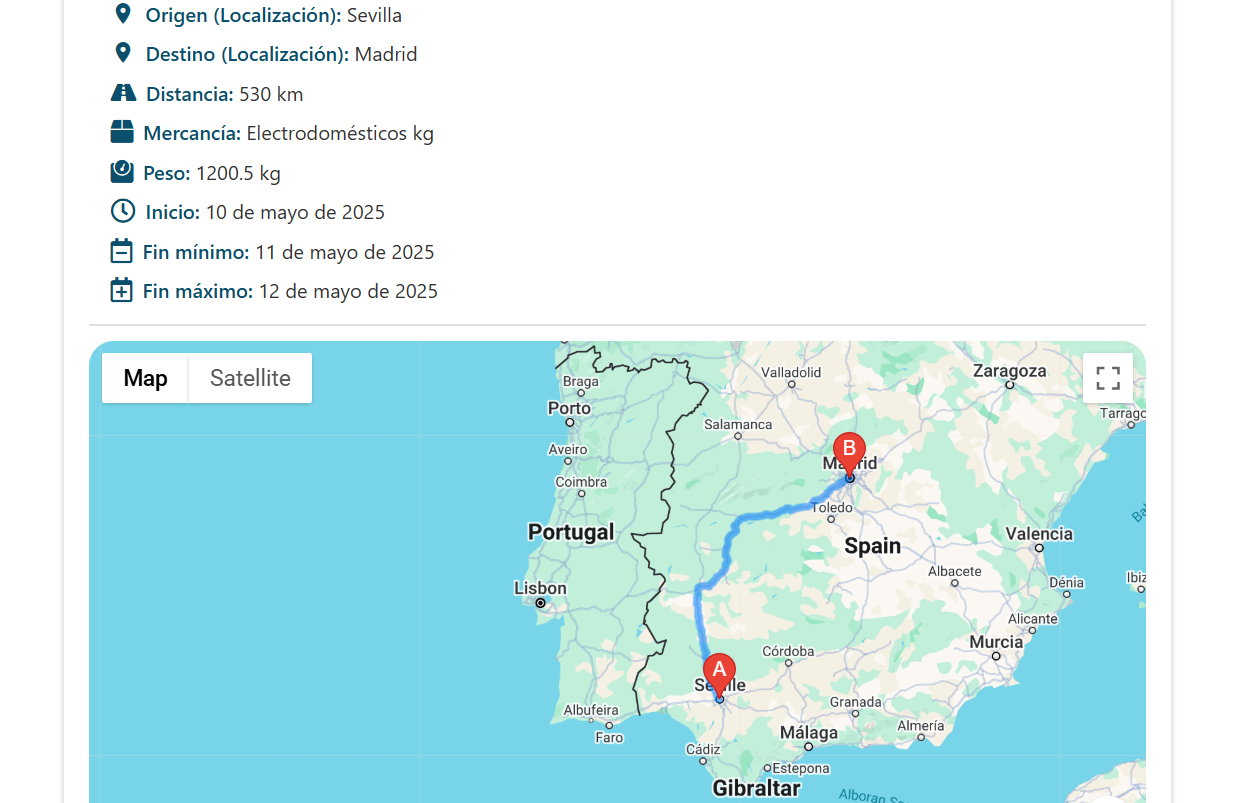
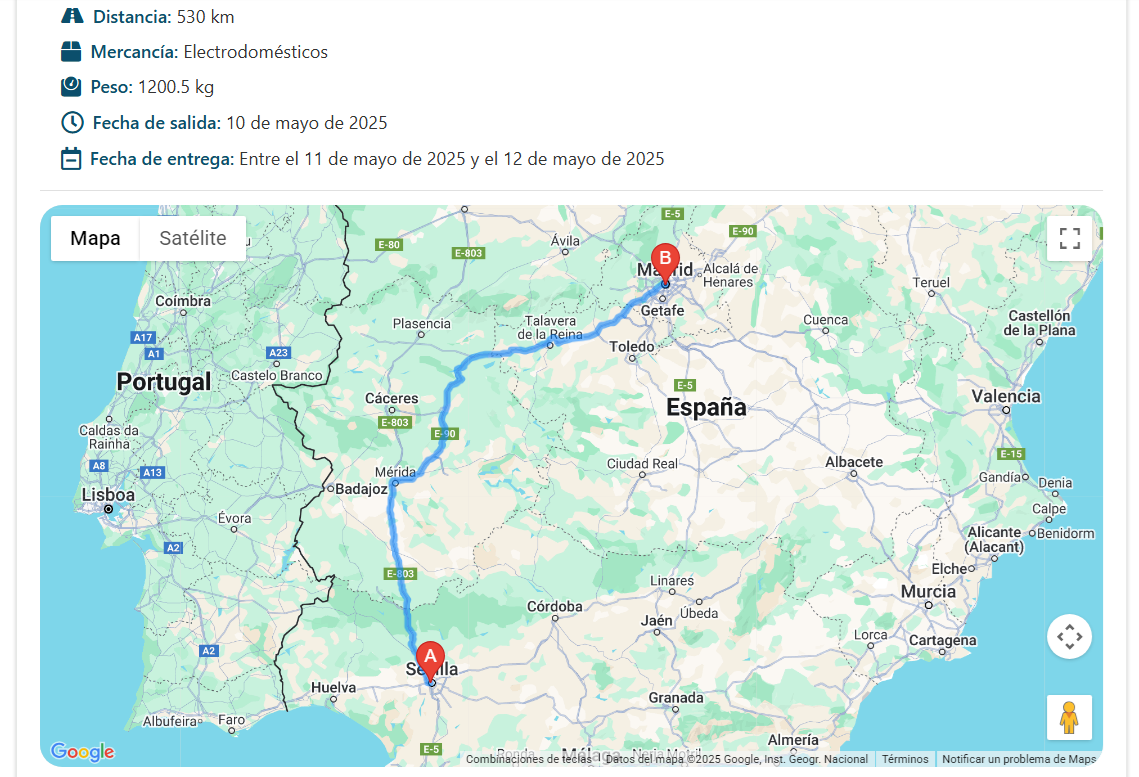
docs: update images from revision.md

diff --git a/docs/5. Preparing Project Launch (PPL)/revision.md b/docs/5. Preparing Project Launch (PPL)/revision.md
@@ -26,13 +26,12 @@
 
 # Contribuciones del Equipo
 
-| Nombre(s) y Apellido(s) | Tipo de Contribución |
-| --- | --- |
-| Adriana Vento Conesa | Datos para la revisión y actualización de algunas imágenes. |
-| José Ramón Baños Botón | Actualización de algunas imágenes. |
-| Raúl Heras Pérez | Añadir apartado de anuncios |
-
-
+| Nombre(s) y Apellido(s)    | Tipo de Contribución                                          |
+| -------------------------- | -------------------------------------------------------------- |
+| Adriana Vento Conesa       | Datos para la revisión y actualización de algunas imágenes. |
+| José Ramón Baños Botón | Actualización de algunas imágenes.                           |
+| Raúl Heras Pérez         | Añadir apartado de anuncios                                   |
+| Carlos García Ortiz       | Actualizar imágenes                                           |
 
 # Tabla de Contenidos
 
@@ -69,8 +68,6 @@
 9. [Pagos](#9-pagos)  
    9.1 [Finalizar compra](#91-finalizar-compra)  
 
-
-
 ## 1. Resumen Ejecutivo
 
 Este documento proporciona una guía detallada para revisar la aplicación web de *matchmaking* de camioneros. Incluye un mapeo explícito de los casos de uso (UC) a las interacciones en el software, datos necesarios para la revisión, requisitos del sistema y un enlace a la demostración.
@@ -101,33 +98,30 @@ En esta tabla aparece toda la información necesaria para la revisión de Camyo.
 ## 3. Autenticación
 
 ### 3.1 Registro
-Pantalla inicial del registro donde el usuario debe elegir si se registrará como Camionero o Empresa.
 
+Pantalla inicial del registro donde el usuario debe elegir si se registrará como Camionero o Empresa.
 
 ![image](./images/registro_opciones.png)
 
 #### 3.1.1 Registro como camionero
+
 Formulario detallado para el registro de camioneros, donde se solicitan datos personales, licencias, experiencia, CAP, y condición de autónomo. Cabe destacar la obligación de aceptar términos y condiciones.
 
 ![image](images/registro_camionero.png)
 ![image](images/registro_camionero2.png)
 
 #### 3.1.2 Registro como empresa
+
 Formulario de registro para empresas, incluyendo información básica, datos de contacto, sitio web y número de identificación fiscal. Cabe destacar la obligación de aceptar términos y condiciones.
 
 ![image](images/registro_empresa.png)
 ![image](images/registro_empresa2.png)
 
-
 ### 3.2 Inicio de sesión
+
 Formulario para que usuarios registrados ingresen con su nombre de usuario y contraseña. Incluye opción para redirigirse al registro si aún no tienen cuenta.
 
 ![image](images/inicio_sesion.png)
-
-
-
-
-
 
 ## 4. General
 
@@ -157,11 +151,11 @@ La pantalla tiene una seccion de búsqueda que permite filtrar ofertas según lo
 
 ![image](images/buscarofertas2.png)
 
-
 ### 4.3 Detalle de oferta
+
 Vista del detalle de una oferta visible para visitantes, que muestra los datos pero requiere iniciar sesión para poder solicitarla.
 
-![image](https://github.com/user-attachments/assets/e2797c89-e28d-4faa-8a91-5a8ba054da2b)
+![image](images/detalles oferta.png)
 
 Pantalla de detalle de una oferta para usuarios autenticados, con botón activo para solicitarla y toda la información relevante del transporte: presupuesto, licencias, origen/destino, fechas y carga. Para las ofertas de carga se incluye un mapa con la ruta entre origen y destino.
 
@@ -169,38 +163,32 @@ Pantalla de detalle de una oferta para usuarios autenticados, con botón activo 
 
 Si solicitamos la oferta nos saldrá un mensaje si la solicitud se ha completado.
 
-![image](https://github.com/user-attachments/assets/a5e70e85-f033-4b50-a4fa-80aecd7cb693)
-
+![image](images/solicitar.png)
 
 En el caso de estar iniciado sesión como empresa, y entramos en detalle de oferta en una oferta propia. Veríamos las camioneros que han solicitado la oferta:
 
-![image](images/camionerosSolicitantes.png)
-
-En el caso de haber asignado a un camionero, podremos contactar con él:
-
-![image](images/camioneroAsignado.png)
+![image](https://github.com/user-attachments/assets/be61c861-5a6e-4e8a-b41b-7600c6f25798)
 
 Los camioneros que han aplicado a la oferta y la empresa que ha hecho la oferta ha rechazado:
 
-![image](images/camionerosRechazados.png)
+![image](https://github.com/user-attachments/assets/d9d500cc-4dac-4926-bfd3-ed2ebcb470a9)
 
 Y la opción de eliminar la oferta:
 
-![image](images/botonEliminar.png)
-
+![image](https://github.com/user-attachments/assets/c0850258-e05e-49ce-8438-f22a1b2456eb)
 
 ### 4.4 Listado de empresas
+
 Pantalla que muestra un listado de empresas registradas en la plataforma con información básica como nombre, web, identificación, ubicación y teléfono, además de acceso a sus perfiles detallados. Se accede mediante el botón de menú sobre empresa.
 
 ![image](https://github.com/user-attachments/assets/dc310496-9942-4df9-ba42-b47a2b8f8ade)
 
-
 ### 4.5 Detalle de empresa
+
 Vista del perfil de una empresa con su información de contacto, descripción, sitio web, ofertas activas y opción para contactar o dejar una reseña. Se ve las ofertas patrocinadas de la empresa en las ofertas activas. También se muestra una sección para valoraciones de otros usuarios.
 
-![image](https://github.com/user-attachments/assets/76b45642-924d-4f57-a49d-cc7f5a74e7d1)
-![image](https://github.com/user-attachments/assets/a11b1288-a9a7-402d-af08-ea9252bea6a9)
-
+![image](images/perfilempresa.png)
+![image](images/perfilempresa2.png)
 
 ## 5. Camionero
 
@@ -209,7 +197,9 @@ Vista del perfil de una empresa con su información de contacto, descripción, s
 Vista privada del perfil del camionero, donde puede ver su información profesional y reseñas recibidas. Además puede editar los datos de su perfil haciendo click sobre la imagen de perfil en la parte superior derecha de la pantalla, y después en ver perfil. Dentro de tu perfil podrás editar el perfil haciendo click sobre el lapiz al lado de la foto de perfil y si quisiera eliminar su cuenta se hace abajo en eliminar cuenta
 ![image](https://github.com/user-attachments/assets/fc43da7f-31e1-434d-8b50-5a74741dbcaf)
 
-![image](https://github.com/user-attachments/assets/5d392ae6-7f58-492a-99c6-3d9ef42345cd)
+![image](images/miperfilcamionero.png)
+
+![image](images/miperfilcamionero2.png)
 
 En la edición de perfil el usuario podrá editar:
 ![image](https://github.com/user-attachments/assets/896b41fa-3256-4014-a6f8-a641d5c306ba)
@@ -220,21 +210,22 @@ En la edición de perfil el usuario podrá editar:
 
 Perfil público visible para las empresas, donde se muestra información laboral, contacto y reseñas recibidas.
 
-![image](https://github.com/user-attachments/assets/4be39ed4-dd9a-4004-8e57-66e8b0f7015e)
+![image](images/perfilcamionero.png)
 
+![image](images/perfilcamionero2.png)
 
 ### 5.2 Mis Ofertas
 
 Una vez iniciada la sesión como camionero, aparece en la barra de navegación la sección "Mis Ofertas" que muestra las solicitudes que ha realizado el camionero y se pueden filtrar por ofertas pendientes (en espera de respuesta por parte de la empresa), asignadas (ofertas aceptadas por la empresa) o descartadas (ofertas en las que el camionero no fue seleccionado para el trabajo o carga).
 
-![image](https://github.com/user-attachments/assets/58a0555d-3912-4dc7-93d3-8f9c75e38aff)
+![image](images/misofertaspendientes.png)
 
 ![image](https://github.com/user-attachments/assets/3d0413f7-da11-4017-aca2-5b7c410aa7a2)
 
 ![image](https://github.com/user-attachments/assets/06c63099-cb29-4ebb-b9e1-92e6aa617da8)
 
-
 ### 5.3 Chat
+
 Una vez iniciado sesión como transportista se podrá acceder a la pantalla de mensajería mediante la barra de navegación, en el apartado de "Mis Mensajes".
 
 <p align="center">
@@ -257,7 +248,8 @@ La pantalla también cuenta con un buscador que filtra por el nombre del usuario
 <img src="images/buscarchat.png">
 </p>
 
-En la pantalla de chat se podrá visualizar las notificaciones para saber si tienes alguna pendiente. 
+En la pantalla de chat se podrá visualizar las notificaciones para saber si tienes alguna pendiente.
+
 <p align="center">
 <img src="images/Notificaciones.png">
 </p>
@@ -268,14 +260,12 @@ En la pantalla de chat se podrá visualizar las notificaciones para saber si tie
 
 Vista privada del perfil de empresa, con acceso para editar información, publicar nuevas ofertas y gestionar el plan de suscripción. Muestra también las ofertas activas y las reseñas recibidas.
 
-![image](https://github.com/user-attachments/assets/379229be-c4b6-43d8-abad-2766d1d74b5b)
-![image](https://github.com/user-attachments/assets/5dfb7fcb-bba5-4599-a230-5409ba1279da)
-
+![image](images/miperfilempresa.png)
+![image](images/miperfilempresa2.png)
 
 Perfil público de empresa donde se pueden consultar los datos de contacto, descripción, web, ofertas abiertas y reseñas de la empresa.
 
-![image](https://github.com/user-attachments/assets/9dee2df4-2f18-439e-97c8-1c0636a0bb2f)
-
+![image](images/perfilempresa1.png)
 
 ### 6.2 Crear Oferta
 
@@ -285,8 +275,7 @@ Al acceder a la plataforma como empresa, podrás crear ofertas para camioneros d
 <img src="images/crearoferta.jpg">
 </p>
 
-
-Además, hay un botón para poder guardar borradores de las ofertas. 
+Además, hay un botón para poder guardar borradores de las ofertas.
 
 <p align="center">
 <img src="images/Guardar Borrador.png">
@@ -299,11 +288,10 @@ En la pantalla de "Mis Ofertas" en "Borradores" podremos ver los borradores que 
 </p>
 
 Además está la posibilidad de editar estos borradores, eliminarlos o publicarlos
+
 <p align="center">
 <img src="images/editarBorrador.png">
 </p>
-
-
 
 Sin embargo, el número de ofertas activas que puedes tener simultáneamente depende del nivel de tu suscripción actual:
 
@@ -318,45 +306,41 @@ En la pantalla de perfil de empresa, verás un botón para crear una nueva ofert
 - Si aún no has alcanzado el límite de ofertas permitidas por tu suscripción:
   - El botón estará habilitado y podrás crear una nueva oferta.
 
-![image](https://i.imgur.com/EwcgGR6.png)
+![image](images/miperfilempresa1.png)
 
 - Si has alcanzado el límite de ofertas activas permitidas:
-  - El botón se bloqueará y mostrará el mensaje **"Límite de Ofertas Alcanzado"**.
+  - El botón se bloqueará y mostrará el mensaje **"Límite de ofertas activas alcanzado"**.
 
-![image](https://i.imgur.com/2mRysoa.png)
+![image](images/miperfilempresa.png)
 
 Pantalla donde las empresas pueden elegir entre tres planes: Gratis, Básico y Premium, con distintas capacidades para publicar ofertas de empleo según el nivel de suscripción.
 
-![image](../3.%20Sprint%202%20(S2)/images/suscripciones.png)
+![image](images/suscripciones.png)
 
 ### 6.4 Promocionar Oferta
 
-En el perfil de oferta se podrán ver las ofertas abiertas de las empresas, y en función del plan elegido se pondrá en disposición la posibilidad de promocionar una o varias ofertas.
+En el perfil de oferta se podrán ver las ofertas abiertas de las empresas, y en función del plan elegido se pondrá en disposición la posibilidad de promocionar una o varias ofertas tras una microtransacción.
 
-![{A65EA168-802A-4C21-9DAD-2229F2E718C9}](https://github.com/user-attachments/assets/33300bab-a28a-49a9-94dd-38dd821fca5a)
-![{AF644063-2EA6-4867-8162-4B62EA0D72FE}](https://github.com/user-attachments/assets/645be8f3-ec23-41f8-9dd1-ba596338e237)
-![{912305FD-41BC-4465-BCCC-A0536648E1C0}](https://github.com/user-attachments/assets/c95849b0-f5cb-4d65-90ec-7f40e6f348c3)
-![{F0746BA6-175E-44E2-8332-96C3D89CD76C}](https://github.com/user-attachments/assets/7f536a66-8892-4337-8ed2-6608f97b1404)
-![{E9148651-6596-4819-809D-2CE320397739}](https://github.com/user-attachments/assets/12a47bb5-791f-4081-9928-319051e8b21e)
-
-Además, desde los detalles de alguna oferta creada, también se podrá promocionar: 
-
-![image](images/detallesDeOferta.png)
+![{A65EA168-802A-4C21-9DAD-2229F2E718C9}](images/hacerpatrocinio.png)
+![{AF644063-2EA6-4867-8162-4B62EA0D72FE}](images/exitopatrocinio.png)
+![{912305FD-41BC-4465-BCCC-A0536648E1C0}](images/cancelarpatrocinio.png)
+![{F0746BA6-175E-44E2-8332-96C3D89CD76C}](images/cancelarpatrocinio2.png)
 
 ### 6.5 Chat
+
 Una vez iniciado sesión como empresa se podrá acceder a la pantalla de mensajería mediante la barra de navegación, en el apartado de "Mis Mensajes". Tienen las mismas características que el panel de mensajes de camioneros (véase [5.3 Chat](#53-chat)).
 
 ### 6.6 Mis Ofertas
+
 Listado de ofertas de trabajo o carga creadas por la empresa que han sido asignadas (abiertas) o no (cerrradas) a algún camionero.
 
-![image](../3.%20Sprint%202%20(S2)/images/misofertasemp1.png)
-![image](../3.%20Sprint%202%20(S2)/images/misofertasemp2.png)
-
-
-
+![image](images/misofertasabiertas.png)
+![image](images/misofertascerradas.png)
 
 ## 7. Reseñas
-### 7.1 Crear y ver reseñas 
+
+### 7.1 Crear y ver reseñas
+
 Tanto para camionero como para perfil se les permitirá valorar a las empresas o camioneros recientes y ver los comentarios que han sido dejados por la empresas o camioneros con los q se ha trabajado recientemente.
 
 <p align="center">
@@ -372,8 +356,8 @@ También pueden ver las reseñas de un usuario y su valoración media. En este c
 <img src="images/recibirReseñas.png">
 </p>
 
-
 ### 7.2 Editar y Eliminar reseñas
+
 Cuando un usuario visite un perfil público en el que ha dejado una reseña podrá editar y borrar su reseña
 
 <p align="center">
@@ -434,5 +418,3 @@ La compra se puede cancelar pulsando la flecha a la izquierda del título **Fina
 Nota: si se intenta acceder a la página de finalización de compra de otra forma que no sea las indicadas anteriormente, se mostrará un error. Esto se debe a que la interacción con los botones, además de redirigir al pago, le pasan a esta página el tipo de compra y, en caso de ser el patrocinio de una oferta, su ID.
 
 ![image](https://i.imgur.com/AfiY2PL.png)
-
-
